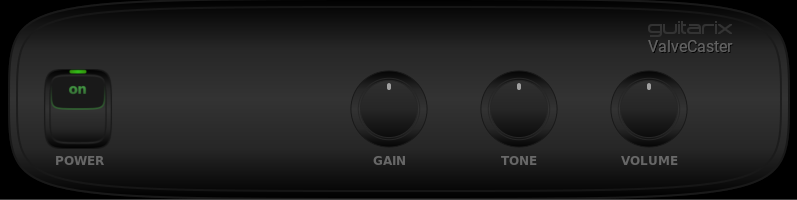
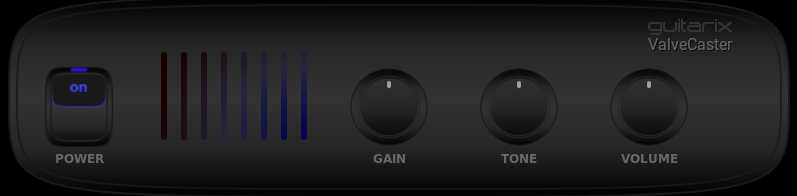
add grid view to GUI

diff --git a/gui/gx_valvecaster_x11ui.c b/gui/gx_valvecaster_x11ui.c
@@ -496,6 +496,33 @@ static void knob_expose(gx_valvecasterUI *ui,gx_controller* knob) {
 	cairo_new_path (ui->crf);
 }
 
+static void draw_grid(gx_valvecasterUI *ui,double x0, double y0, double x1, double y1) {
+
+	cairo_pattern_t* pat = cairo_pattern_create_radial (300, 140,
+											  1,300,140,140 );
+	if (ui->controls[0].adj.value > 0.9) {
+		cairo_pattern_add_color_stop_rgba (pat, 1,  0.1*ui->controls[0].adj.value, 0.0, 0.0, 1.0);
+		cairo_pattern_add_color_stop_rgba (pat, 0.5,  0.15, 0.15,0.15+ (0.1*ui->controls[0].adj.value), 1.0);
+		cairo_pattern_add_color_stop_rgba (pat, 0,  0.0, 0.0, 0.0 + (0.3*ui->controls[0].adj.value), 1.0);
+	} else {
+		cairo_pattern_add_color_stop_rgba (pat, 1,  0.0, 0.0, 0.0, 1.0);
+	}
+
+	cairo_set_line_cap(ui->cr, CAIRO_LINE_CAP_ROUND);
+	cairo_set_line_join(ui->cr, CAIRO_LINE_JOIN_BEVEL);
+	//cairo_set_source_rgba (cr, 0.0, 0.0, 0.0, 0.4);
+	cairo_set_source (ui->cr, pat);
+	cairo_set_line_width (ui->cr, 6.0);
+	for (int i=x0+5; i<=x1; i+=20)
+	{
+		cairo_move_to (ui->cr, i, y0);
+		cairo_line_to (ui->cr, i, y1);
+	}
+	cairo_stroke (ui->cr);
+	cairo_pattern_destroy (pat);
+
+}
+
 // draw the power switch (bypass)
 static void bypass_expose(gx_valvecasterUI *ui, gx_controller* switch_) {
 	cairo_set_operator(ui->crf,CAIRO_OPERATOR_CLEAR);
@@ -523,6 +550,13 @@ static void bypass_expose(gx_valvecasterUI *ui, gx_controller* switch_) {
 	cairo_move_to (ui->crf, 40.0-extents.width/2, 87.0+extents.height);
 	cairo_show_text(ui->crf, switch_->label);
 	cairo_new_path (ui->crf);
+
+	cairo_scale (ui->cr, 1.0/ui->rescale.c, 1.0/ui->rescale.c);
+	cairo_scale (ui->cr, ui->rescale.x, ui->rescale.y);
+	draw_grid(ui,160,58,320,140);
+	cairo_scale (ui->cr, ui->rescale.x1, ui->rescale.y1);
+	cairo_scale (ui->cr, ui->rescale.c, ui->rescale.c);
+
 }
 
 // select draw methode by controller type
@@ -536,13 +570,11 @@ static void _expose(gx_valvecasterUI *ui) {
 	cairo_push_group (ui->cr);
 
 	cairo_scale (ui->cr, ui->rescale.x, ui->rescale.y);
-
 	cairo_set_source_surface (ui->cr, ui->pedal, 0, 0);
 	cairo_paint (ui->cr);
 	cairo_scale (ui->cr, ui->rescale.x1, ui->rescale.y1);
 
 	cairo_scale (ui->cr, ui->rescale.c, ui->rescale.c);
-
 	for (int i=0;i<CONTROLS;i++) {
 		draw_controller(ui, &ui->controls[i]);
 		cairo_set_source_surface (ui->cr, ui->frame, 
@@ -558,11 +590,11 @@ static void _expose(gx_valvecasterUI *ui) {
 // redraw a single controller
 static void controller_expose(gx_valvecasterUI *ui, gx_controller * control) {
 	cairo_push_group (ui->cr);
+
 	cairo_scale (ui->cr, ui->rescale.x, ui->rescale.y);
-
 	cairo_set_source_surface (ui->cr, ui->pedal, 0, 0);
-
 	cairo_scale (ui->cr, ui->rescale.x1, ui->rescale.y1);
+
 	cairo_scale (ui->cr, ui->rescale.c, ui->rescale.c);
 	cairo_rectangle (ui->cr,(double)control->al.x * ui->rescale.x2,
 	  (double)control->al.y * ui->rescale.y2,
